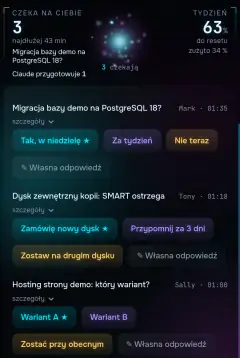
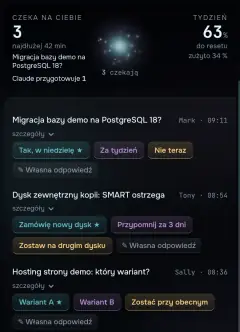
Dziennik zmian: nić sprawy na zrzutach panelu (przed/po), rdzeń zbiera wspólny kod i lekcje, połysk włosów głów
Kadry kart decyzji panelu przenagrane (spokojna paleta, rozwinięta sesja z nicią); demo: zapytanie kart z ref,
wymyślone plany sesji (fake_dec.PLANS), dni tygodnia po polsku w final.py; opis panelu o nici; plan nocy.

Nocne-odswiezanie: tak

Kind: feat

diff --git a/tools/panel-demo/fake_dec.py b/tools/panel-demo/fake_dec.py
@@ -30,20 +30,22 @@ DONE = [  # (źródło, min temu zadane, min do odpowiedzi, pytanie, wybrany, wy
 Q = []
 for i, (src, m, q, ctx, opts) in enumerate(OPEN):
     Q.append({"id": 900 + i, "at": NOW - timedelta(minutes=m), "source": src, "question": q, "context": ctx, "options": opts,
-              "answer": None, "answered_at": None, "applied_at": None, "result": None, "task_result": None, "note": None, "auto": False})
+              "answer": None, "answered_at": None, "applied_at": None, "result": None, "task_result": None, "note": None, "auto": False, "ref": None, "task_at": None})
 for i, (src, m, dm, q, pick, res, auto) in enumerate(DONE):
     at = NOW - timedelta(minutes=m)
     opts = _o((pick, ""), ("Później", ""))
     Q.append({"id": 880 + i, "at": at, "source": src, "question": q, "context": "", "options": opts, "answer": "1",
               "answered_at": at + timedelta(minutes=dm), "applied_at": at + timedelta(minutes=dm + 2), "result": res,
-              "task_result": None, "note": None, "auto": auto})
+              "task_result": None, "note": None, "auto": auto, "ref": None, "task_at": None})
 
 
 def rows(sql, params=None):
     s = " ".join(sql.split()).lower()
     if "from owner_questions" not in s:
         return None
-    if s.startswith("select id, at, source, question"):
+    if "source = 'most'" in s:   # karty mostu (nić czatu) — w demo ich nie ma
+        return []
+    if s.startswith(("select id, at, source, question", "select id, at, source, ref, question")):   # od 10.11 z ref
         return [dict(x, options=[dict(o) for o in x["options"]]) for x in Q]
     if "status = 'draft'" in s:
         return [{"n": 1}]
@@ -60,6 +62,25 @@ SESS = [
      "label": "готово " + time.strftime("%H:%M", time.localtime(T - 6 * 60)), "lvl": "ok", "bg": False, "dur": "",
      "what": "Strona statusu 4,7 s → 0,3 s, testy zielone"},
 ]
+
+
+# 11.11.2026: nić sprawy (gc-plan) pod wierszami sesji — wymyślone kroki po polsku (rdzeń podpisuje „N из M”, tu „N z M”)
+PLANS = [
+    {"sid": "s1", "q": "Zrzuty kart decyzji", "st": "now",
+     "steps": [("kadry", "ok"), ("przegląd", "ok"), ("WebP", "now"), ("commit", "wait"), ("wdrożenie", "wait")]},
+    {"sid": "s2", "q": "Szybsza strona statusu", "st": "ok",
+     "steps": [("pomiar", "ok"), ("indeks", "ok"), ("cache", "ok"), ("testy", "ok")]},
+]
+
+
+def _plans(*a, **k):
+    out = []
+    for p in PLANS:
+        n = len(p["steps"])
+        nit = [{"t": t, "st": st, "s": f"{i + 1} z {n}" if st in ("now", "warn") else "gotowe" if p["st"] == "ok" and i == n - 1 else "",
+                "h": ""} for i, (t, st) in enumerate(p["steps"])]
+        out.append({"id": None, "sid": p["sid"], "q": p["q"], "derzhit": "", "st": p["st"], "nit": nit})
+    return out
 
 
 RESULT = {900: "Zaplanowane: niedziela 03:00, kopia przed i test odtworzenia po"}
@@ -84,6 +105,13 @@ def patch():
     from gitcloud_ai import claudecc
     claudecc.sessions = lambda *a, **k: [dict(s) for s in SESS]
     claudecc.usage = lambda: {"l5": 22, "r5": T + 2.6 * 3600, "lw": 34, "rw": T + 3.2 * 86400, "at": T - 120}
+    try:   # nić sprawy: tylko wymyślone plany, bez git log i czatu mostu
+        from gitcloud_ai import nit
+        nit.plans = _plans
+        nit.fill = lambda *a, **k: {}
+        nit.stol = lambda *a, **k: []
+    except ImportError:
+        pass
     try:
         from gitcloud_ai import workshop
         workshop.claude_rows = lambda *a, **k: []

diff --git a/tools/panel-demo/final.py b/tools/panel-demo/final.py
@@ -4,7 +4,8 @@ from playwright.sync_api import sync_playwright
 base, out = sys.argv[1], sys.argv[2]   # [modele]
 PL = [[r"из (\d+) действий", "z $1 działań"], ["[hH][rR], бухгалтер и диктор", "korespondencja i terminy"], ["kadry, księgowość i lektor", "korespondencja i terminy"], ["Вживую", "Na żywo"], ["Мастерская", "Warsztat"],
       ["меньше: ", "najmniej: "], ["ответов", "odpowiedzi"], ["сломано", "zepsute"], ["отказов", "odmów"], ["провал экзамена", "egzamin oblany"],
-      ["категория", "kategoria"], ["Открыть", "Otwórz"], ["дольше всех", "najdłużej"], [" мин", " min"], ["само: ", "automatycznie: "], ["Claude готовит", "Claude przygotowuje"], ["вопросы", "pytania"], ["Решила", "Zdecydowała"], ["Отправила", "Wysłała"], ["Решил", "Zdecydował"], ["Отправил", "Wysłał"]]
+      ["категория", "kategoria"], ["Открыть", "Otwórz"], ["дольше всех", "najdłużej"], [" мин", " min"], ["само: ", "automatycznie: "], ["Claude готовит", "Claude przygotowuje"], ["вопросы", "pytania"], ["Решила", "Zdecydowała"], ["Отправила", "Wysłała"], ["Решил", "Zdecydował"], ["Отправил", "Wysłał"],
+      ["пн (\\d)", "pn $1"], ["вт (\\d)", "wt $1"], ["ср (\\d)", "śr $1"], ["чт (\\d)", "czw $1"], ["пт (\\d)", "pt $1"], ["сб (\\d)", "sob $1"], ["вс (\\d)", "nd $1"]]
 JS = """(pl) => { const w = document.createTreeWalker(document.body, NodeFilter.SHOW_TEXT); let n;
   while ((n = w.nextNode())) { let t = n.nodeValue, o = t; for (const [a, b] of pl) t = t.replace(new RegExp(a, 'g'), b); if (t !== o) n.nodeValue = t; } }"""
 # 10.11.2026: na stronie bez „Dom (tylko odczyt)” w nagłówku i bez przycisku mostu „Dom ↔ Praca” (prywatne)
@@ -46,6 +47,9 @@ with sync_playwright() as p:
             if name.endswith("szczegoly"):   # подробности первой карточки и журнал решений раскрыты
                 pg.evaluate("""() => { document.querySelector('[data-key=decide] .gc-dq-more').open = true;
                                        document.querySelector('[data-key=clx-journal]').open = true; }""")
+                s1 = pg.locator('[data-key="cc:s1"]')   # 11.11.2026: rozwinięta sesja w toku — nić sprawy (fake_dec.PLANS)
+                if s1.count():
+                    s1.first.click(); pg.wait_for_timeout(1200)
                 pg.evaluate(JS, PL); pg.wait_for_timeout(400)
             el.scroll_into_view_if_needed(); bb = el.bounding_box()
             sy = pg.evaluate("scrollY"); top = bb["y"] + sy

diff --git a/tools/odswiez/PLAN.md b/tools/odswiez/PLAN.md
@@ -1,30 +1,31 @@
 # Plan prowadzenia strony (aktualizowany co noc)
 
-Ostatnia noc: 2026-11-11
+Ostatnia noc: 2026-11-11 (druga runda: kadry decyzji panelu z nicią sprawy)
 
 ## Nieaktualne
-- Głowy agentów (agenci/*.webp, glowa-*.mp4, glowy.mp4): nagrane bez ramion. Głowa ma od 10.11 opcję `&withbody=1`
-  (ramiona w kadrze), ale to inny kadr i inna kamera niż obecne klipy. Osobne nagranie z ramionami jest zaplanowane
-  (12.11, razem z filmami panelu i pilota); nocne odświeżanie go nie dubluje.
-- Filmy panelu i pilota (panel.mp4, agenci.mp4, pilot.mp4) i ich plakaty: starszy wygląd niż zdjęcia z 10.11.
-  To samo nagranie 12.11.
-- Konsola ISP (public/img/demo): zrzuty z 05.11 w niebieskim motywie „Kolor”, strona ma spokojną paletę. Przenagrać,
-  gdy platforma ISP dostanie ciemny motyw zbliżony do panelu; inaczej zostają.
-- Panel: kadry z 10.11 nie pokazują „nici sprawy” przy sesjach Claude (wpis w /zmiany/ z 10.11).
-  Demo panelu (tools/panel-demo) nie ma danych przykładowych dla nici; dopisać je do fake.py i zrobić kadr przed/po.
+- Panel: zrzuty agentów (panel-agenci*, panel-tony, panel-sally) i modeli (panel-modele*) są jeszcze w neonowej palecie;
+  panel ma od 11.11 spokojniejszą (kadry decyzji już nowe). Przenagrać `final.py` (bez trybu i `modele`), jedna noc.
+- Głowy agentów (agenci/*.webp, glowa-*.mp4, glowy.mp4): nagrane bez ramion i bez nowego połysku włosów przy ruchu
+  (11.11, widać tylko w ruchu). Głowa ma `&withbody=1`; osobne nagranie z ramionami zaplanowane na 12.11 (razem
+  z filmami panelu i pilota), nocne odświeżanie go nie dubluje.
+- Filmy panelu i pilota (panel.mp4, agenci.mp4, pilot.mp4) i plakaty: starszy wygląd. To samo nagranie 12.11.
+- Konsola ISP (public/img/demo): zrzuty z 05.11 w niebieskim motywie „Kolor”. Przenagrać, gdy platforma ISP dostanie
+  ciemny motyw zbliżony do panelu; inaczej zostają.
 - Pulpit (pulpit-gitcloud): wspólny czat głów i podpis „czym zajęty” nad głową są tylko w tekście dziennika, bez kadru.
 
 ## Do pokazania
-- Nić sprawy: krótki kadr (WebP) albo pętla kilku sekund: pasek idzie, zatrzymuje się, kończy na zielono.
+- Nić sprawy w ruchu: pętla kilku sekund (pasek idzie, zatrzymuje się, kończy na zielono); dane są już w
+  tools/panel-demo/fake_dec.py (PLANS), wystarczy nagranie screencastem jak rolik.py.
 - Czat głów na pulpicie: kadr z trzema awatarami na danych przykładowych (bez prawdziwych rozmów).
-- Opis projektu panelu: po kadrze nici dopisać jedno zdanie o nici sprawy (projects.json + i18n).
 - Głowy z ramionami: po nagraniu 12.11 wpis wizualny przed/po w /zmiany/, jeśli nie zrobi go samo nagranie.
 
 ## Nie udało się / ograniczenia
 - Przepis filmów głów (kadrowanie 960×474 i 1280×632 z klatek clip.py) jest poza repo; przenieść do
   tools/glowy/ razem z nagraniem z ramionami.
+- Okładka panelu (panel-okladka.webp) to dziś kadr strony modeli, a tools/okladki/panel.html składa starszą okładkę
+  z kart decyzji; ustalić, który przepis jest aktualny, zanim okładka będzie przenagrywana.
 
 ## Pomysły
-- Krótki film „noc w GitCloud”: co robią zadania nocne (kopie, przegląd kodu, dokumentacja, CI dzień/noc)
-  na danych przykładowych.
+- Krótki film „noc w GitCloud”: co robią zadania nocne (kopie, przegląd kodu, dokumentacja, przenoszenie wspólnego
+  kodu do rdzenia, CI dzień/noc) na danych przykładowych.
 - Strona Dyżurny admin: przykład grupowania błędów w logach (ślady, serie) jako schemat, bez prawdziwych logów.
